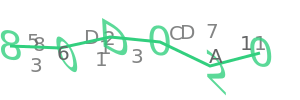
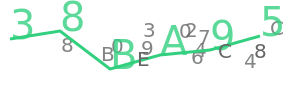
making createCaptcha independent.

Changed region(s): [[0.0, 0.0, 0.96, 0.84], [0.72, 0.84, 0.75, 0.93]]

diff --git a/js-script/extra.js b/js-script/extra.js
@@ -1,25 +1,83 @@
 "use strict";
 Object.defineProperty(exports, "__esModule", { value: true });
 exports.createCaptcha = void 0;
-const _1 = require(".");
+const constants_1 = require("./constants");
+const util_1 = require("./util");
+function drawDecoy(ctx, decoyOption = {}) {
+    const option = { ...constants_1.defaultDecoyOptions, ...decoyOption };
+    if (!option.total)
+        option.total = Math.floor(ctx.canvas.width * ctx.canvas.height / 10000);
+    const decoyText = (0, util_1.randomText)(option.total);
+    ctx.font = `${option.size}px ${option.font}`;
+    ctx.globalAlpha = option.opacity;
+    ctx.fillStyle = option.color;
+    for (const element of decoyText) {
+        ctx.fillText(element, (0, util_1.getRandom)(30, ctx.canvas.width - 30), (0, util_1.getRandom)(30, ctx.canvas.height - 30));
+    }
+}
+function drawTrace(ctx, coordinates, traceOption = {}) {
+    const option = { ...constants_1.defaultTraceOptions, ...traceOption };
+    ctx.strokeStyle = option.color;
+    ctx.globalAlpha = option.opacity;
+    ctx.beginPath();
+    ctx.moveTo(coordinates[0][0], coordinates[0][1]);
+    ctx.lineWidth = option.size;
+    for (let i = 1; i < coordinates.length; i++) {
+        ctx.lineTo(coordinates[i][0], coordinates[i][1]);
+    }
+    ctx.stroke();
+}
+function drawCaptcha(ctx, coordinates, captchaOption = {}) {
+    var _a;
+    const option = { ...constants_1.defaultCaptchaOption, ...captchaOption };
+    if (captchaOption.text)
+        option.text = captchaOption.text;
+    if (!option.text || option.text == "")
+        option.text = (0, util_1.randomText)(option.characters);
+    if (option.text.length != option.characters) {
+        if (captchaOption.text) {
+            throw new Error("Size of text and no. of characters is not matching.");
+        }
+        else {
+            option.text = (0, util_1.randomText)(option.characters);
+        }
+    }
+    ctx.font = `${option.size}px ${option.font}`;
+    ctx.globalAlpha = option.opacity;
+    ctx.fillStyle = option.color;
+    for (let n = 0; n < coordinates.length; n++) {
+        if (option.skew) {
+            ctx.transform(1, Math.random(), (0, util_1.getRandom)(20) / 100, 1, 0, 0);
+        }
+        if (option.rotate && option.rotate > 0) {
+            ctx.rotate((0, util_1.getRandom)(-option.rotate, option.rotate) * Math.PI / 180);
+        }
+        if (option.colors && ((_a = option.colors) === null || _a === void 0 ? void 0 : _a.length) >= 2) {
+            ctx.fillStyle = option.colors[(0, util_1.getRandom)(option.colors.length - 1)];
+        }
+        ctx.fillText(option.text[n], coordinates[n][0], coordinates[n][1]);
+    }
+    return { text: option.text };
+}
 /**
  * Create custom captcha from scratch.
  * @param {CreateCaptchaOptions} [option] Captcha text.
  * @returns { text: string }
  */
 function createCaptcha(option) {
-    const captcha = new _1.Captcha({ ctx: option.ctx });
+    var _a;
     const width = option.ctx.canvas.width;
     const height = option.ctx.canvas.height;
     const decoyCount = Math.floor(width * height / 2500);
+    const coordinates = (0, util_1.getRandomCoordinate)(height, width, ((_a = option.captcha) === null || _a === void 0 ? void 0 : _a.characters) || constants_1.defaultCaptchaOption.characters);
     if (!option.decoy)
         option.decoy = {};
     if (!option.decoy.total)
         option.decoy.total = decoyCount;
-    captcha.addDecoy(option.decoy);
-    captcha.drawCaptcha(option.captcha);
-    captcha.drawTrace(option.trace);
-    captcha.addDecoy({ opacity: 1 });
-    return { text: captcha.text };
+    drawDecoy(option.ctx, option.decoy);
+    const { text } = drawCaptcha(option.ctx, coordinates, option.captcha);
+    drawTrace(option.ctx, coordinates, option.trace);
+    drawDecoy(option.ctx, { opacity: 1 });
+    return { text };
 }
 exports.createCaptcha = createCaptcha;

diff --git a/ts-script/extra.ts b/ts-script/extra.ts
@@ -1,27 +1,82 @@
 import { Captcha } from ".";
-import { CreateCaptchaOptions } from "./constants";
+import { CreateCaptchaOptions, defaultCaptchaOption, defaultDecoyOptions, defaultTraceOptions, DrawCaptchaOption, SetDecoyOption, SetTraceOption } from "./constants";
+import { getRandom, getRandomCoordinate, randomText } from "./util";
 
+function drawDecoy(ctx: CanvasRenderingContext2D, decoyOption: SetDecoyOption = {}) {
+    const option = { ...defaultDecoyOptions, ...decoyOption };
+    if(!option.total) option.total = Math.floor(ctx.canvas.width * ctx.canvas.height/10000);
+    
+    const decoyText = randomText(option.total);
+    ctx.font = `${option.size}px ${option.font}`;
+    ctx.globalAlpha = option.opacity;
+    ctx.fillStyle = option.color;
+    for(const element of decoyText) {
+        ctx.fillText(element, getRandom(30, ctx.canvas.width - 30), getRandom(30, ctx.canvas.height - 30));
+    }
+}
+
+function drawTrace(ctx: CanvasRenderingContext2D, coordinates: number[][], traceOption: SetTraceOption = {}) {
+    const option = { ...defaultTraceOptions, ...traceOption };
+
+    ctx.strokeStyle = option.color;
+    ctx.globalAlpha = option.opacity;
+
+    ctx.beginPath();
+    ctx.moveTo(coordinates[0][0], coordinates[0][1]);
+    ctx.lineWidth = option.size;
+    for(let i = 1; i < coordinates.length; i++) {
+        ctx.lineTo(coordinates[i][0], coordinates[i][1]);
+    }
+    ctx.stroke();
+}
+
+function drawCaptcha(ctx: CanvasRenderingContext2D, coordinates: number[][], captchaOption: DrawCaptchaOption = {}) {
+    const option = { ...defaultCaptchaOption, ...captchaOption };
+    if(captchaOption.text) option.text = captchaOption.text;
+    if(!option.text || option.text == "") option.text = randomText(option.characters);
+    if(option.text.length != option.characters) {
+        if(captchaOption.text) {
+            throw new Error("Size of text and no. of characters is not matching.");
+        }
+        else {
+            option.text = randomText(option.characters);
+        }
+    }
+    
+    ctx.font = `${option.size}px ${option.font}`;
+    ctx.globalAlpha = option.opacity;
+    ctx.fillStyle = option.color;
+
+    for(let n = 0; n < coordinates.length; n++) {
+        if (option.skew) {ctx.transform(1, Math.random(), getRandom(20) / 100, 1, 0, 0);}
+        if (option.rotate && option.rotate > 0) {ctx.rotate(getRandom(-option.rotate, option.rotate) * Math.PI / 180);}
+        if (option.colors && option.colors?.length >= 2) {ctx.fillStyle = option.colors[getRandom(option.colors.length - 1)];}
+        ctx.fillText(option.text[n], coordinates[n][0], coordinates[n][1]);
+    }
+
+    return { text: option.text };
+}
 /**
  * Create custom captcha from scratch.
  * @param {CreateCaptchaOptions} [option] Captcha text.
  * @returns { text: string }
  */
 export function createCaptcha(option: CreateCaptchaOptions) {
-    const captcha = new Captcha({ ctx: option.ctx });
     const width = option.ctx.canvas.width;
     const height = option.ctx.canvas.height;
     const decoyCount = Math.floor(width*height/2500);
+    const coordinates = getRandomCoordinate(height, width, option.captcha?.characters || defaultCaptchaOption.characters);
 
     if(!option.decoy) option.decoy = {};
     if(!option.decoy.total) option.decoy.total = decoyCount;
 
-    captcha.addDecoy(option.decoy);
+    drawDecoy(option.ctx, option.decoy);
 
-    captcha.drawCaptcha(option.captcha);
+    const { text } = drawCaptcha(option.ctx, coordinates, option.captcha);
 
-    captcha.drawTrace(option.trace);
+    drawTrace(option.ctx, coordinates, option.trace);
 
-    captcha.addDecoy({ opacity: 1 });
+    drawDecoy(option.ctx, { opacity: 1 });
 
-    return { text: captcha.text };
+    return { text };
 }

diff --git a/js-script/constants.js b/js-script/constants.js
@@ -41,9 +41,9 @@ exports.defaultCaptchaOption = {
     characters: 6,
     size: 40,
     font: 'Sans',
-    skew: true,
+    skew: false,
     colors: [],
-    rotate: 5,
+    rotate: 0,
     color: '#32cf7e',
     opacity: 0.8,
     text: '',

diff --git a/ts-script/constants.ts b/ts-script/constants.ts
@@ -100,9 +100,9 @@ export const defaultCaptchaOption: {
     characters: 6,
 	size: 40,
 	font: 'Sans',
-	skew: true,
+	skew: false,
 	colors: [],
-	rotate: 5,
+	rotate: 0,
 	color: '#32cf7e',
 	opacity: 0.8,
     text: '',
